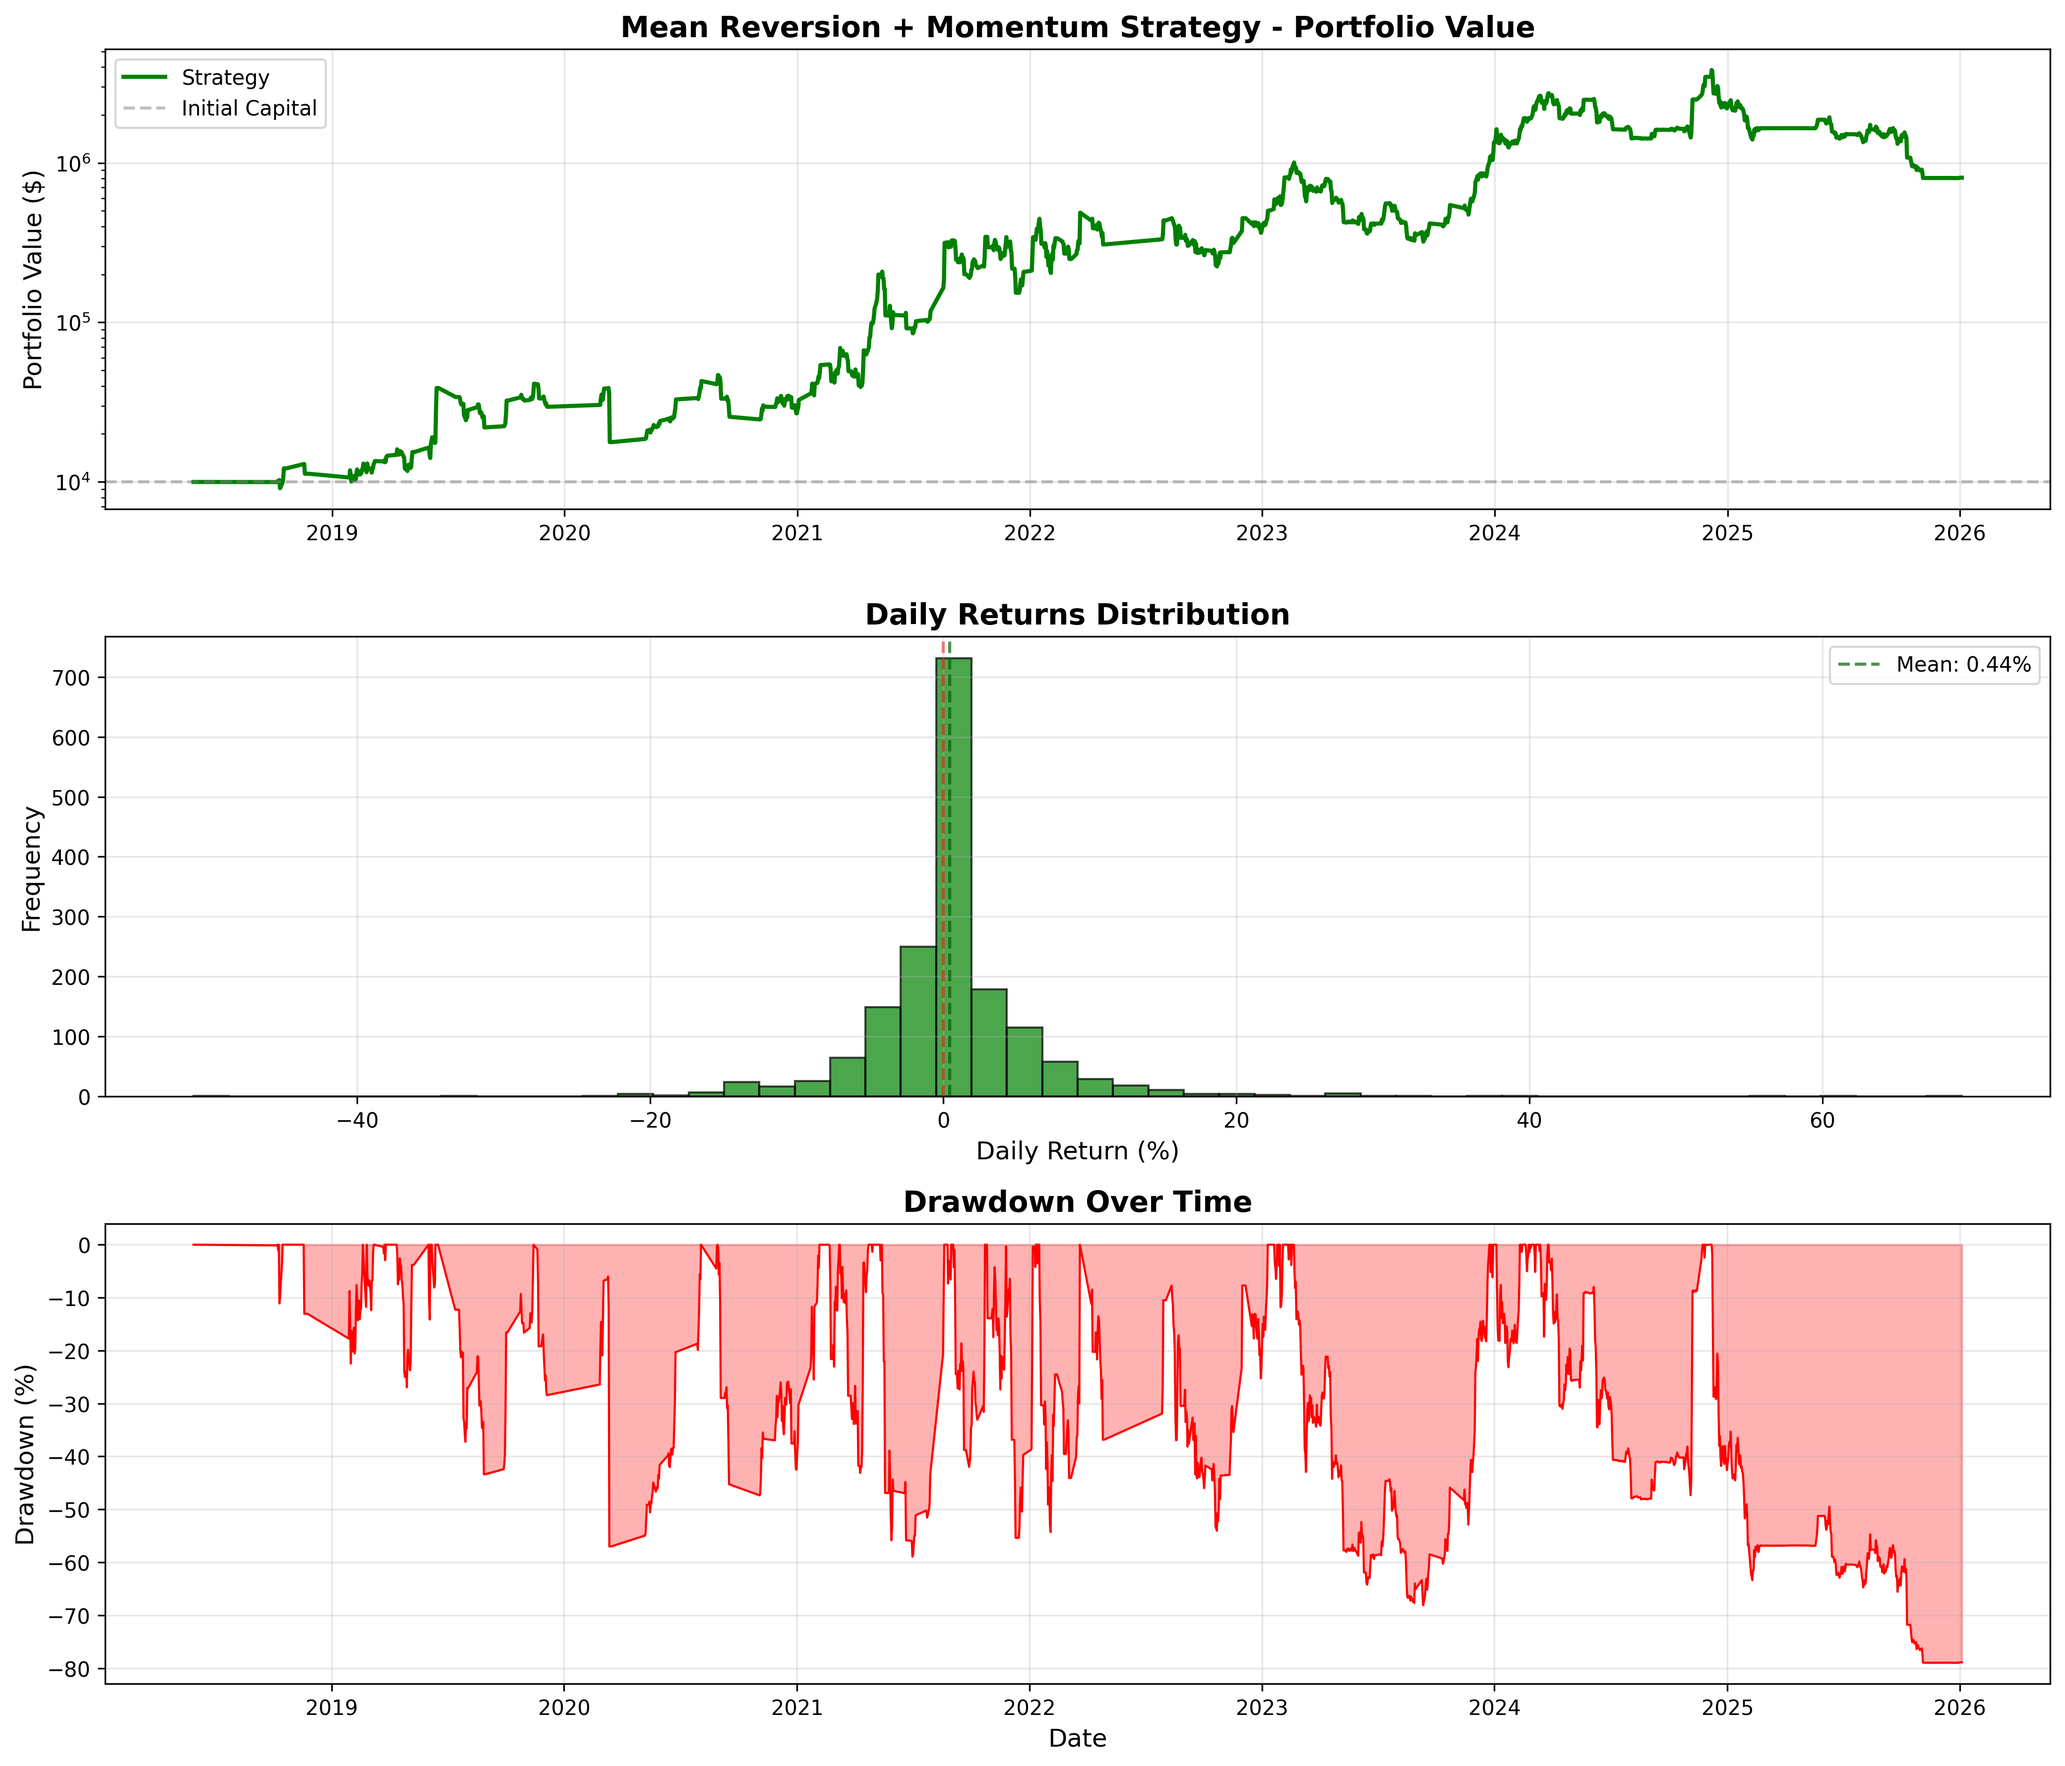
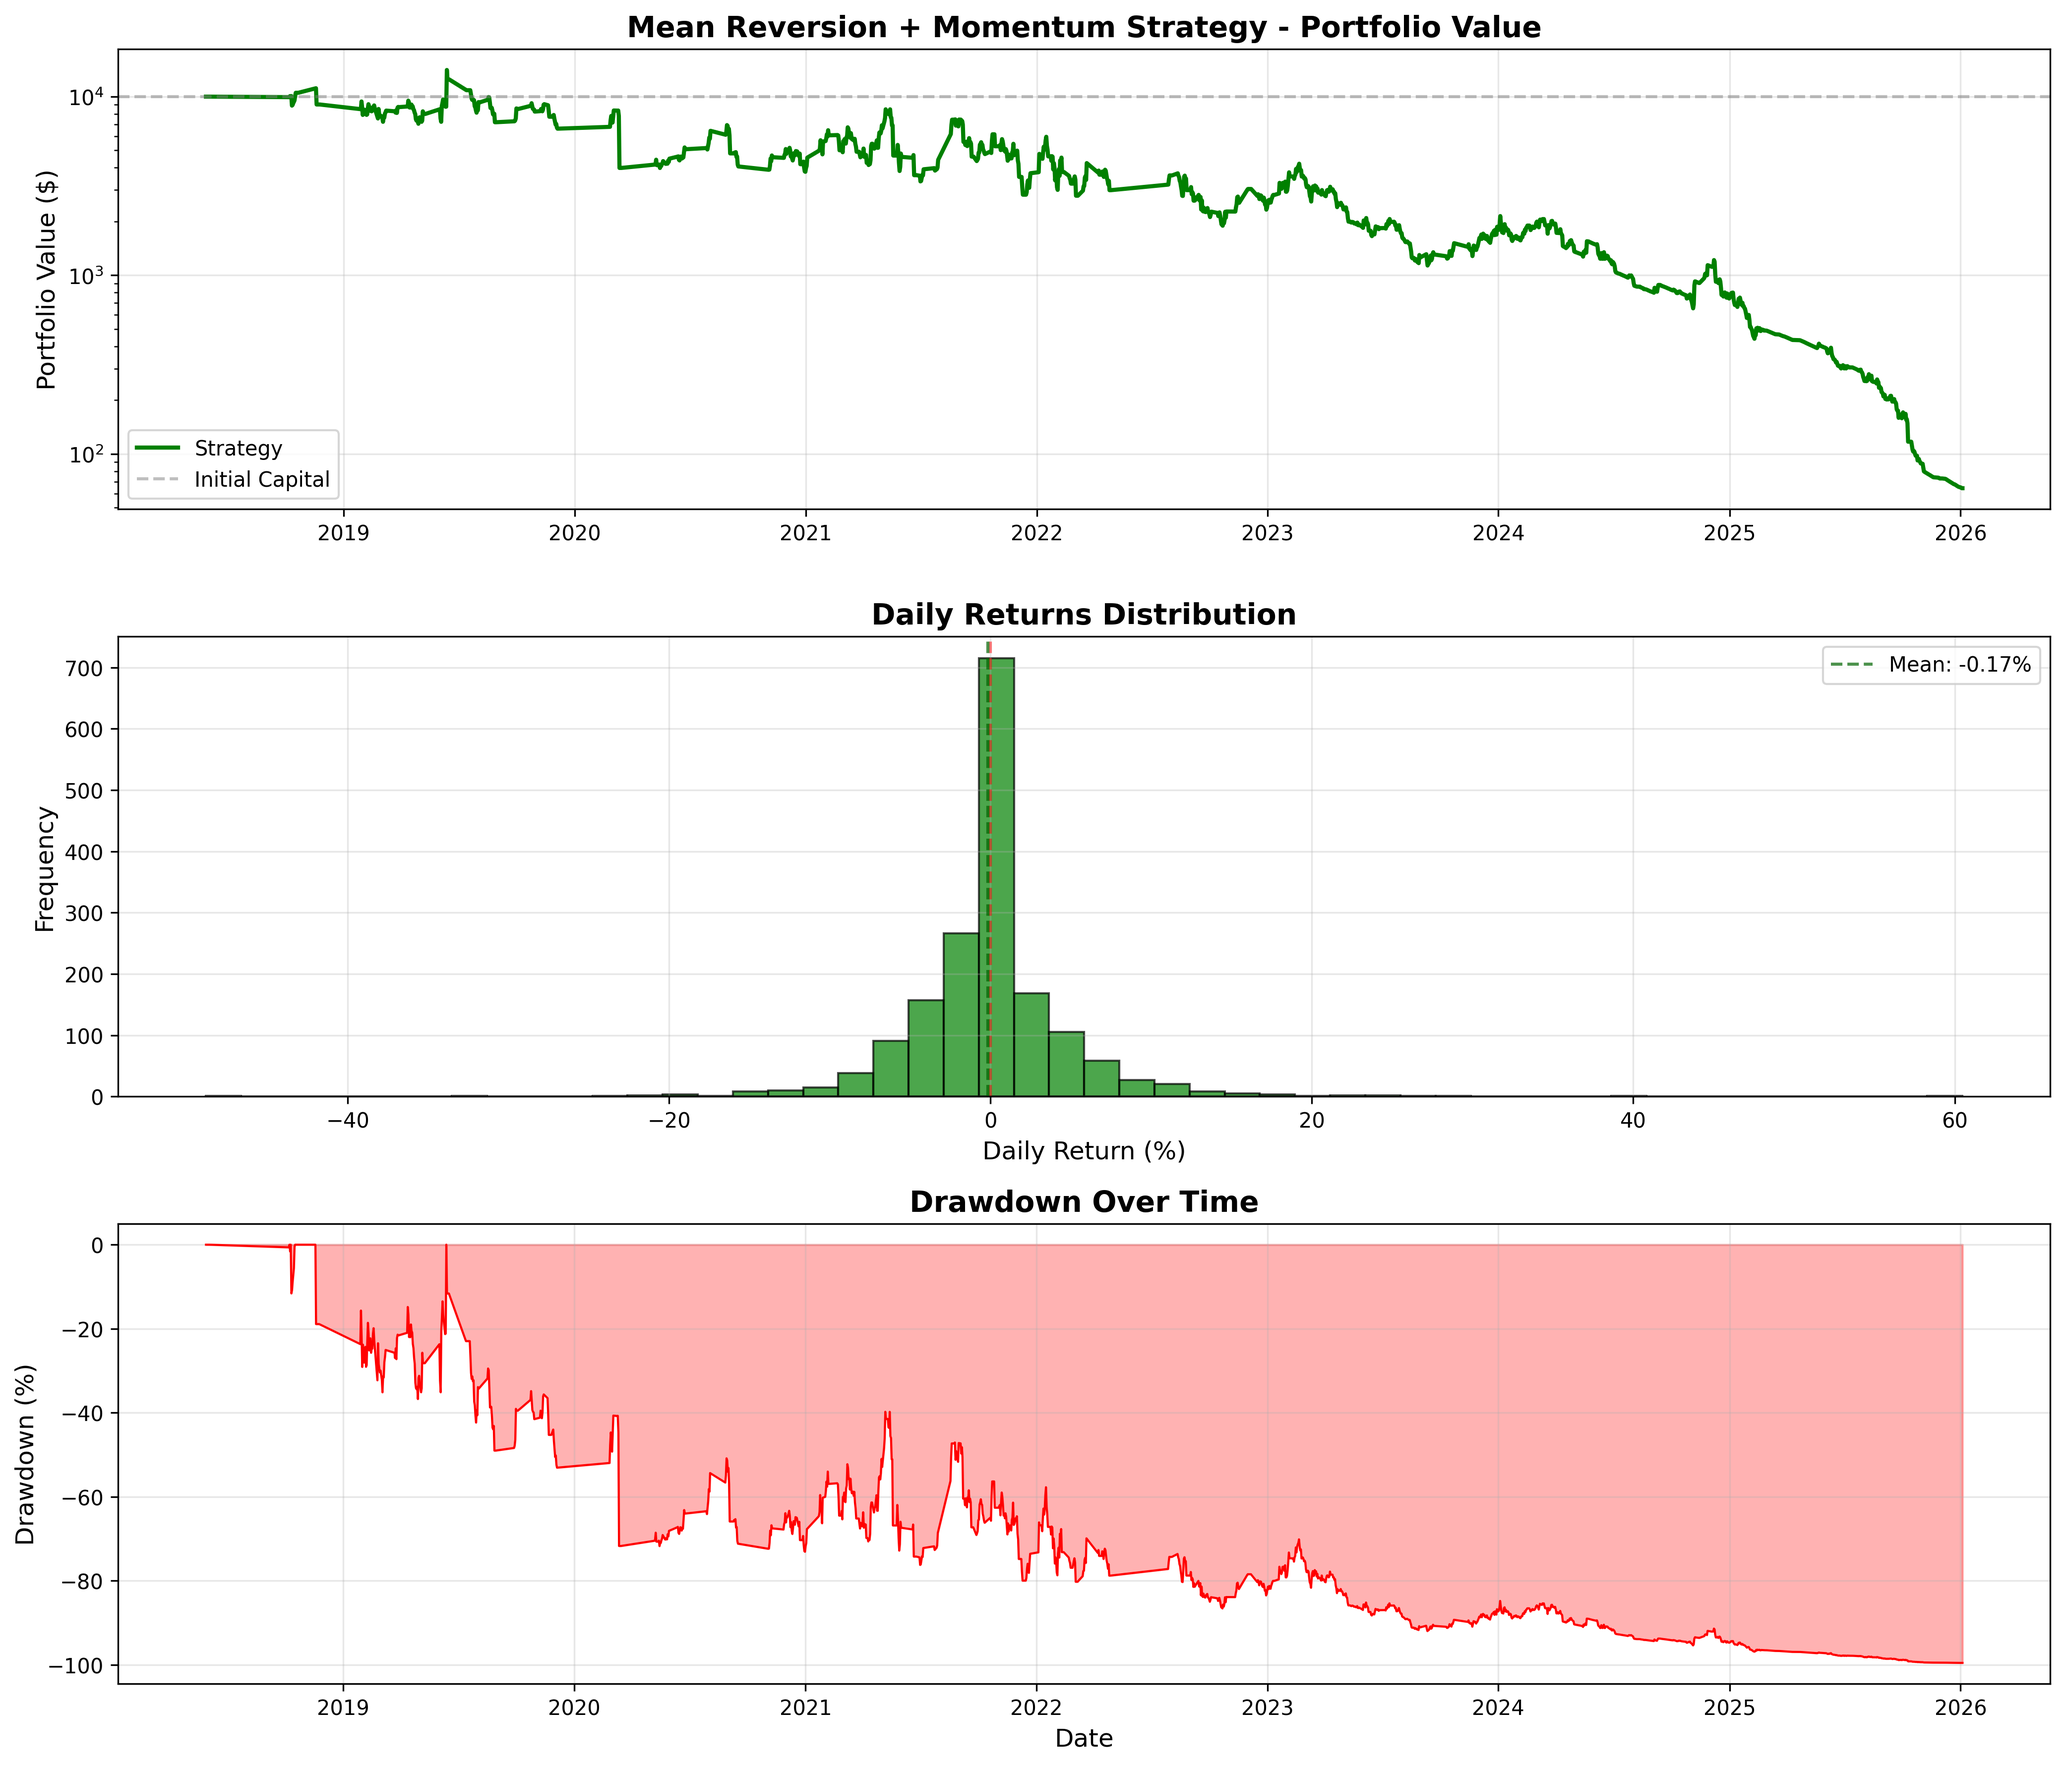
adding transaction costs

diff --git a/src/backtesting/backtesting.py b/src/backtesting/backtesting.py
@@ -18,6 +18,8 @@ from src.backtesting.data_cleaner import clean_data
 from src.backtesting.indicators import calculate_indicators
 from src.backtesting.performance import calculate_performance_metrics
 from src.backtesting.plot import plot_backtest_results
+from src.backtesting.slippage import slippage_cost 
+from src.backtesting.transaction_costs import apply_transaction_costs 
 
 
 def backtest_strategy(df, initial_capital=10000, rebalance_days=7):
@@ -146,30 +148,27 @@ def backtest_strategy(df, initial_capital=10000, rebalance_days=7):
                     current_rsi = current_price_data['rsi'].values[0]
                     current_bb_pos = current_price_data['bb_position'].values[0]
                     
-                    # Calculate daily return
+                    # ---------- 1. Calculate raw daily return ----------
                     daily_return = (next_price - current_price) / current_price
-                    
-                    # Check exit conditions
+
+                    # ---------- 2. Apply slippage ----------
+                    # Example: assume pool liquidity = 100,000 USD for simplicity
+                    pool_liquidity = 5_000_000
+                    slippage_fraction = slippage_cost(position['allocation'], pool_liquidity)
+                    daily_return -= slippage_fraction  # reduce return due to slippage
+
+                    # ---------- 3. Apply transaction costs ----------
+                    tx_cost_fraction = apply_transaction_costs(position['allocation']) / position['allocation']
+                    daily_return -= tx_cost_fraction  # reduce return due to fees + gas
+
+                    # ---------- 4. Check exit conditions ----------
                     entry_price = position['entry_price']
                     total_return = (next_price - entry_price) / entry_price
-                    
-                    # Exit rule 1: Stop loss at -12% (SLIGHTLY RELAXED)
-                    if total_return < -0.12:
+
+                    if total_return < -0.12 or current_rsi > 70 or current_bb_pos > 0.95:
                         tokens_to_exit.append(token_addr)
-                        daily_portfolio_return += total_return / len(current_positions)
-                    
-                    # Exit rule 2: Overbought (RSI > 70)
-                    elif current_rsi > 70:
-                        tokens_to_exit.append(token_addr)
-                        daily_portfolio_return += total_return / len(current_positions)
-                    
-                    # Exit rule 3: Hit upper Bollinger Band (take profit)
-                    elif current_bb_pos > 0.95:
-                        tokens_to_exit.append(token_addr)
-                        daily_portfolio_return += total_return / len(current_positions)
-                    
+                        daily_portfolio_return += daily_return / len(current_positions)
                     else:
-                        # Hold position
                         daily_portfolio_return += daily_return / len(current_positions)
             
             # Remove exited positions

diff --git a/src/backtesting/slippage.py b/src/backtesting/slippage.py
@@ -1,0 +1,12 @@
+def slippage_cost(trade_value, pool_liquidity):
+    """
+    Approximate slippage for constant product AMM (Uniswap V2/V3 style).
+    trade_value: USD amount you want to swap
+    pool_liquidity: USD value of the pool's reserve for that token
+    Returns slippage fraction (0.0 = no slippage)
+    """
+    fraction_of_pool = trade_value / pool_liquidity
+    # Simple non-linear approximation
+    slippage = fraction_of_pool / (1 - fraction_of_pool)
+    return slippage
+

diff --git a/src/backtesting/transaction_costs.py b/src/backtesting/transaction_costs.py
@@ -1,0 +1,4 @@
+def apply_transaction_costs(trade_value, dex_fee=0.003, gas_fee_usd=0.15):
+    # trade_value: USD allocated to the token
+    total_cost = trade_value * dex_fee + gas_fee_usd
+    return total_cost
